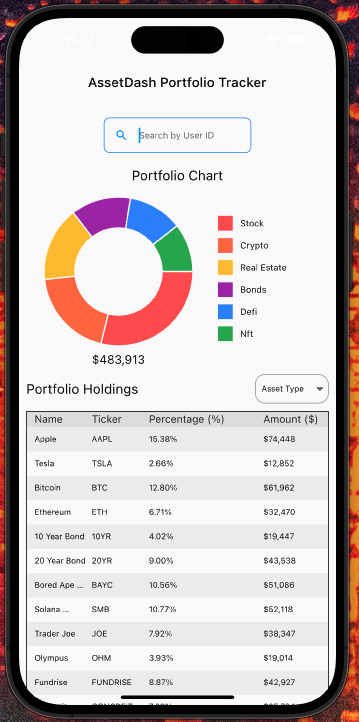
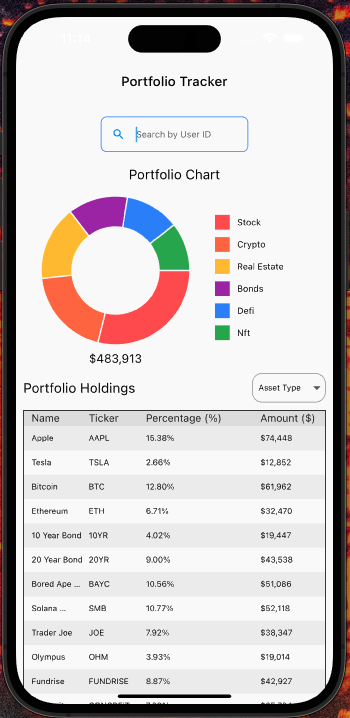
updated images

diff --git a/lib/home/presentation/screens/home.dart b/lib/home/presentation/screens/home.dart
@@ -22,7 +22,7 @@ class PortfolioTrackerScreen extends StatelessWidget {
         appBar: AppBar(
           centerTitle: true,
           title: const Text(
-            'AssetDash Portfolio Tracker',
+            'Portfolio Tracker',
             style: TextStyle(
               fontSize: 18,
               color: Colors.black,
